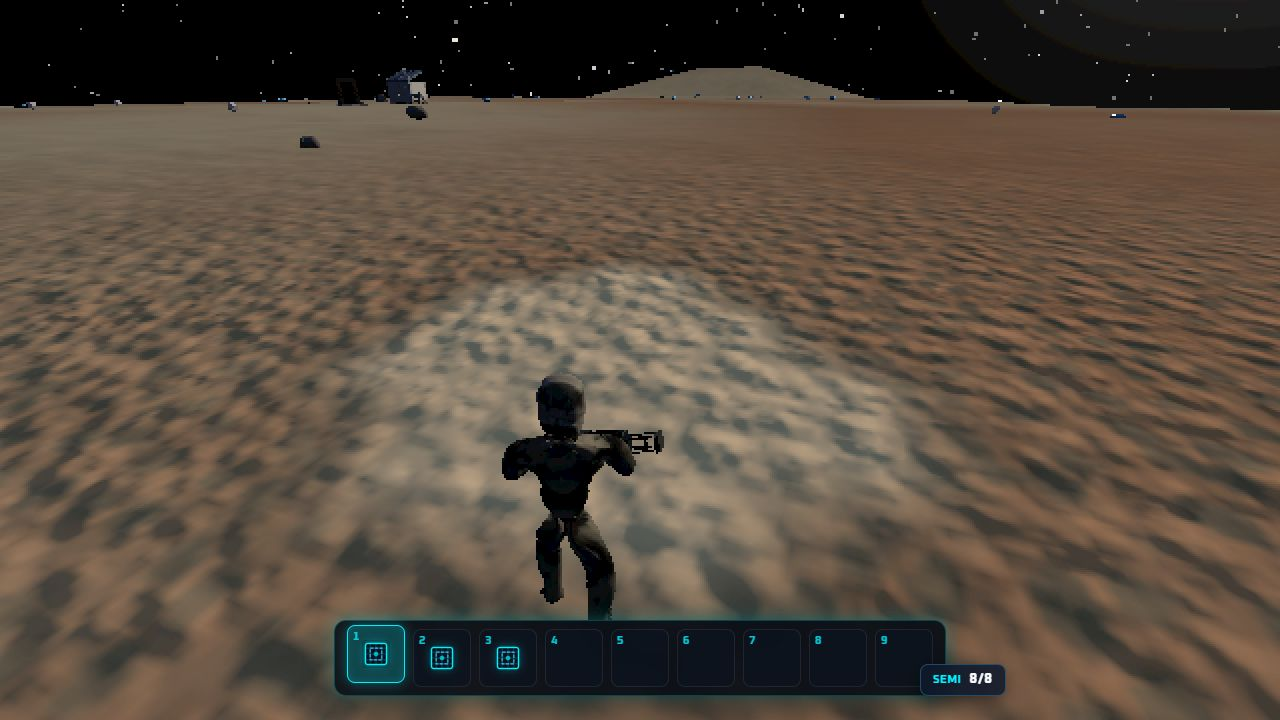
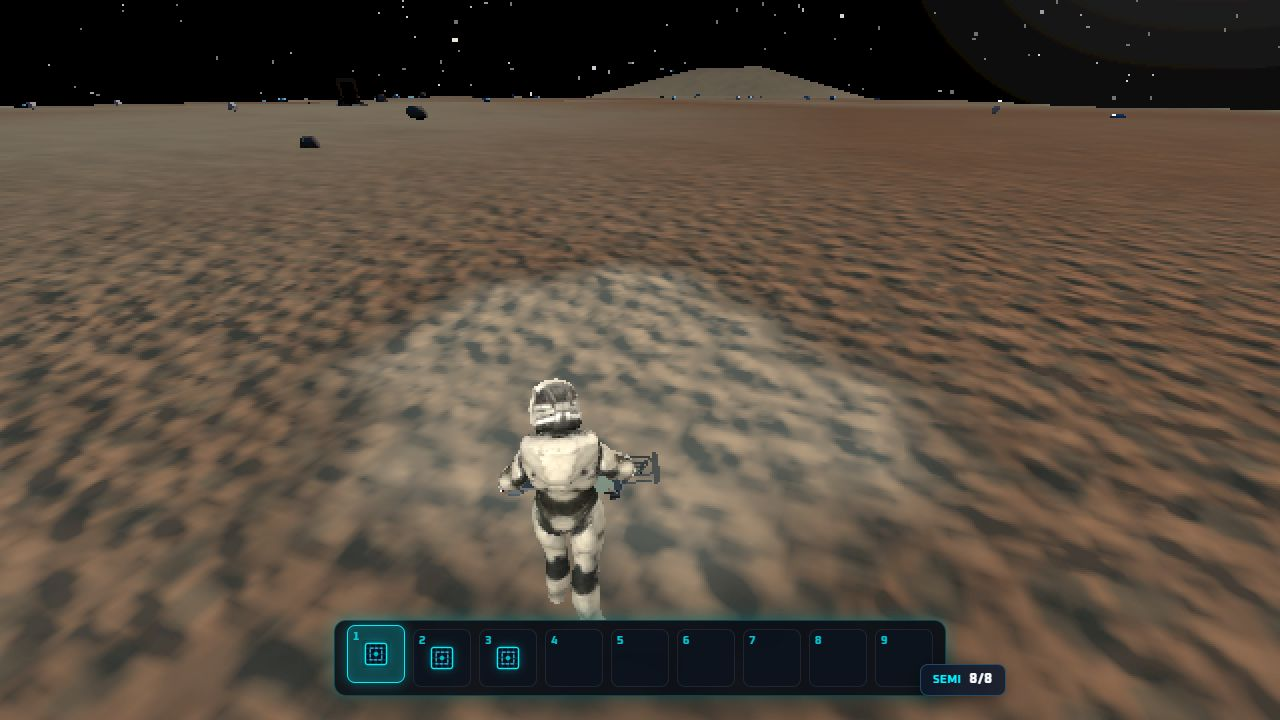
docs: TASK-21c accepted; Argo's tour and intro updated (the character now reads); POL-28 two-hand IK

Changed region(s): [[0.375, 0.5194, 0.5312, 0.8556], [0.2812, 0.0917, 0.3438, 0.1528]]

diff --git a/docs/argo/TOUR.md b/docs/argo/TOUR.md
@@ -17,7 +17,7 @@ These are taken by the automated tests, so some show test overlays: the "Click t
 | [11 the inventory](tour/11-inventory.jpg) | The suit rig, the weapon loadout and the cargo grid. | Clean, but generic. |
 | [12 driving the rover](tour/12-rover-driving.jpg) | The scout in motion. | The camera clips into geometry, and the vehicle camera needs work. |
 | [13 the beam, first person](tour/13-beam-first-person-apply-paint.jpg) | The rifle-shaped extraction beam in Apply mode, with a painted patch of ground. | The prop reads, but it is dark. |
-| [14 the beam, third person](tour/14-beam-third-person.jpg) | The player character holding the beam. | The character renders near-black, and the rifle is tiny. Both are being fixed in TASK-21c. |
+| [14 the beam, third person](tour/14-beam-third-person.jpg) | The player character holding the beam. | Fixed on 13 October: the suit reads (it takes the lab's reflection, metal capped), and the rifle clips are retargeted onto Astro's rig. Still open: the left hand aims at the foregrip but isn't IK-placed. |
 | [15 the Studio](tour/15-studio-editor.jpg) | The owner's editor: the content browser, gizmo viewport, details, and Changes with Accept. | The shell and asset bench were finished on 13 October. |
 | [16 the Studio's asset bench](tour/16-studio-asset-levels.jpg) | One model at Low, Mid and High side by side, with the redo panel. | Used to touch up and redo the generated models. |
 | [17 monsters, batch 1](tour/17-monsters-batch1.jpg) | Freedoom sprites and Quaternius 3D monsters, packed by archetype. | Not in the game yet (TASK-23b). The tonal clash between gory Doom-era sprites and cute low-poly is open for your direction. |

diff --git a/docs/DEFERRED_POLISH_REGISTRY.md b/docs/DEFERRED_POLISH_REGISTRY.md
@@ -20,6 +20,7 @@
 | **POL-25** | **Window Flash on the Lab Floor** | TASK-19 review 3 (2026-10-13) | A static burst in the window view should briefly light the lab floor. The light gain is up (+12 per unit of flash, capped at 0.7), but the capture lands about 0.3 s after the peak, so it cannot be shown yet. Add a peak hook in the vista and check it by eye. | Polish pass. |
 | **POL-26** | **Stage-0 Storm Ground Speckle** | TASK-19 review 3 (2026-10-13) | At progress 0 the window's dust plain is EGA-quantised (Pxd 0.15) and speckles black and white. It follows the plan's fidelity, but it is busy. Kept for now; a candidate for the owner's Studio polish (raise the ground's Pxd or soften the dither). | Owner's Studio pass. |
 | **POL-27** | **Single-File Size Watch** | Opus (2026-10-13) | dist/index.html is 17.9 MB, up from 6.9 MB on main (9 Oct). Most of it is the 114 inline generated lows (6 MB raw). Measure the load and parse time on the GTX 950M laptop (TASK-24). If it passes ~25 MB or loads slowly, move vista-only props to a fetched side file behind the loading bar, keeping the playable core inline. | Watch; TASK-24 measures. |
+| **POL-28** | **Two-Hand IK on the Rifle** | TASK-21c (2026-10-13) | The third-person left hand aims at the beam's foregrip socket but isn't IK-placed on it; from the side the foregrip reads foreshortened. Add a two-bone IK for the left arm to the foregrip socket. | Polish pass. |
 
 ---
 

diff --git a/docs/SIDECAR_COMMS.md b/docs/SIDECAR_COMMS.md
@@ -2142,3 +2142,11 @@ Then TASK-12 (music and effects): brief `docs/prompts/sidecar/12-music-sfx.md`.
   - `debug.sideShot(metres)` is a shot tool only;
   - the index has a staged deletion of `docs/prompts/sidecar/.task22-beats22-27.part.mjs` that is not mine; I left it alone (I committed with explicit paths).
 - **21d (sculpt, saving, the beats)** is not touched.
+
+### [2026-10-13 21:02] OPUS → SIDECAR: [REVIEW] TASK-21c accepted
+- **Accepted** (22327b1c, 048ba625, 272e024b):
+  - the suit reads on the planet (shot 08 looked at: a white armoured suit with the rifle in hand);
+  - the rifle clips are properly retargeted (34 KB, no hip scaling hack);
+  - test-beam-tool passes 28 of 28.
+- **For TASK-22b:** decide whether a kit boot carries A4-01. If it does, drop test-beam-tool's seed. The typecheck error in `campaign-chain.test.ts` (unused syncChain) is yours to clear.
+- **For later:** two-hand IK on the foregrip is logged as POL-28.

diff --git a/docs/argo/START_HERE.md b/docs/argo/START_HERE.md
@@ -71,7 +71,7 @@ The briefs are in [`docs/prompts/sidecar/`](../prompts/sidecar/).
 - **The HUD fights itself.** On arrival on the Moon, three texts overlap (a big title, the build readout, the radio subtitle), and a build readout ("CANNOT PLACE") shows when you aren't building. Design language varies between screens built by different sidecars.
 - **Prototype looks:**
   - foundations are flat red slabs with blue rings;
-  - the player character renders near-black on the planet (being fixed);
+  - the player character rendered near-black on the planet (fixed on 13 October; the left hand still isn't IK-placed on the rifle);
   - the rover camera clips into geometry;
   - the menu is a list of text.
 - **No juice yet:** placing, mining, printing and killing lack the feedback (sound, VFX, camera, haptics) that makes them feel good.
